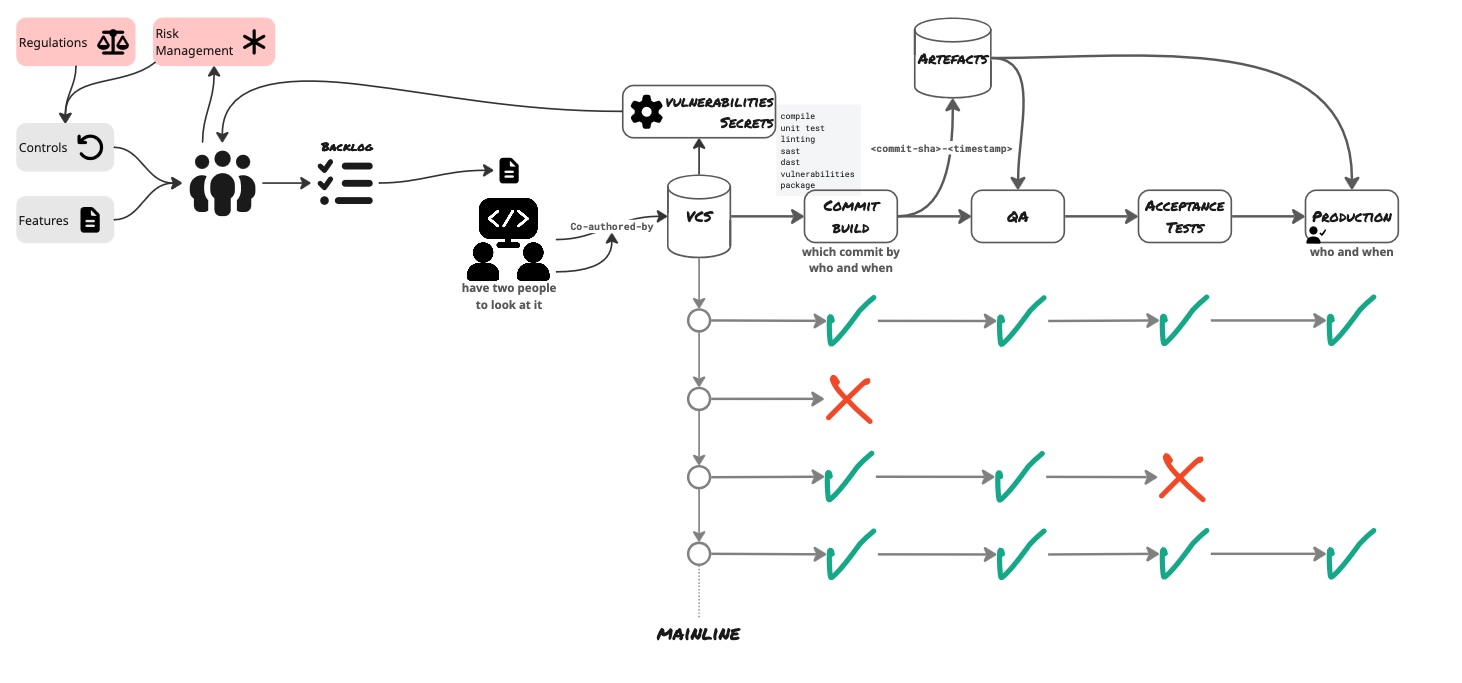
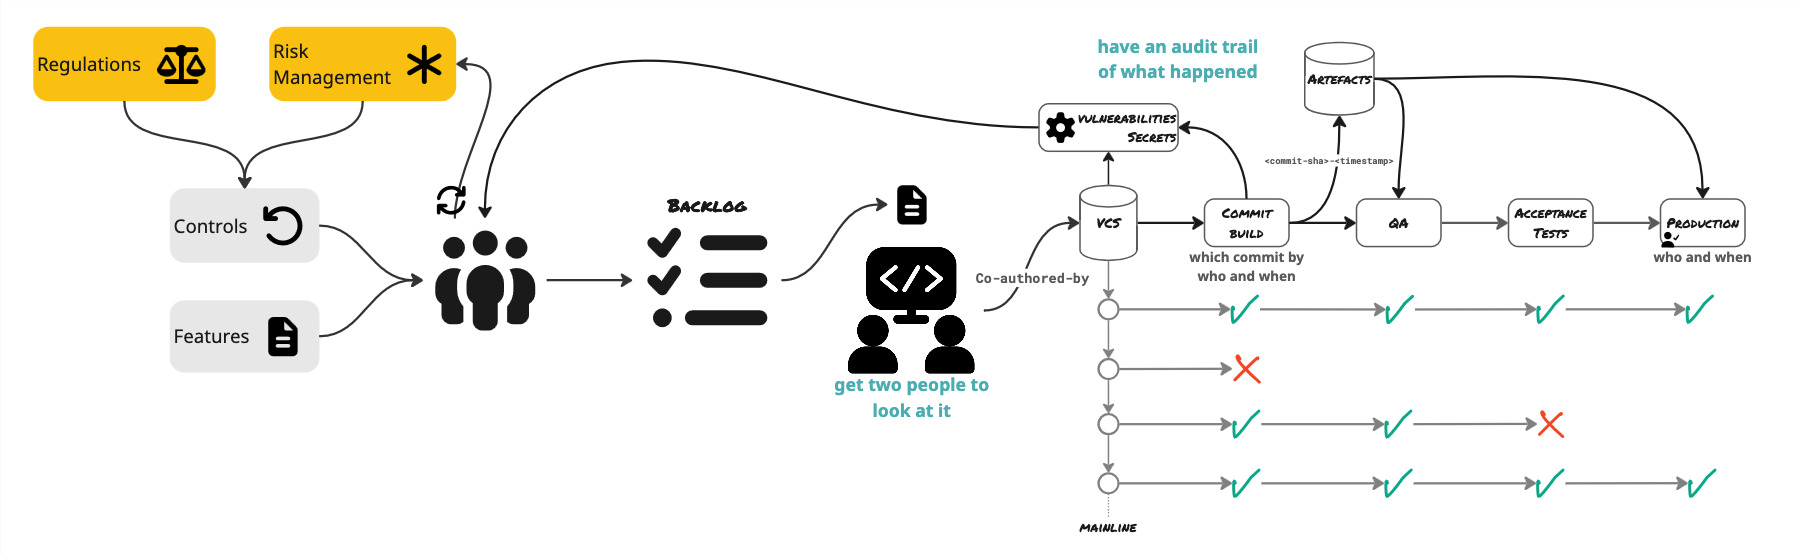
Draft continuous compliance

diff --git a/_drafts/continuous-compliance.md b/_drafts/continuous-compliance.md
@@ -7,11 +7,13 @@ tags: [ Compliance, Continuous Delivery ]
 image: /images/continuous-compliance/continuous-compliance.jpg
 ---
 
-[But, compliance!]({% post_url 2022-02-22-on-the-evilness-of-feature-branching-but-compliance %}) Somehow, a welcome justification for all the superfluous gates in our software delivery process, and to embarrassingly uphold the unreasonable delays. Contrary to common belief, compliance is not a good reason to go slow. Going slow for safety is a mistake. It introduces all sorts of disorders, drives down quality, and decelerates even more till a grinding halt. No! Compliance is an excellent ground for better quality and thus to go fast, accelerate feedback, and ultimately produce better, but also more compliant outcomes.
+[But, compliance!]({% post_url 2022-02-22-on-the-evilness-of-feature-branching-but-compliance %}) Somehow, a welcome justification for all the superfluous gates in our software delivery process, and to embarrassingly uphold the unreasonable delays. Contrary to common belief, compliance is not a good reason to go slow. Research is clear about this, going slow for safety is a mistake. It introduces friction, decelerates feedback, drives down quality, and brings a team to a grinding halt. No! Compliance is an excellent ground for better quality and thus faster delivery, accelerate feedback, and ultimately produce better, but also more compliant outcomes.
 
 ---
 
-But, what is Compliance, anyway? The industry, and at some point including me, tends to make an amalgam between Governance, Compliance and Risk Management, and use them interchangeably. Though, they mean different things.
+## Governance, Risk, and Compliance (GRC)
+
+But, what is Compliance, anyway? The industry, and at some point including me, tends to make an amalgam between Governance, Compliance and Risk Management. They are frequently used interchangeably. Though, they mean different things.
 
 **Governance** are all the activities an organisation performs to be compliant with external regulations (ECB, EMA, ...), certifications (PCI-DSS, ISO27001, ISAE 3000, ...), frameworks (ITIL, COBIT, ...), or legally binding contracts and internal regulations (the standards, policies, procedures which are translations of external regulations, certifications or frameworks in internal ways of working).
 
@@ -23,7 +25,7 @@ But, Governance involves more than the steps to be compliant. It also includes k
 
 **Risk Management** is one of the Governance activities, to support Compliance. Regulations demand an organisation to manage its risks. But, good leadership also demand for Risk Management to build a successful organisation. 
 
-A Risk is a negative outcome which negatively impact an organisation's goals, reputation, or operations resulting from ineffective leadership, ethical lapses, inadequate controls, compliance failures, or strategic errors that threaten stakeholder interests. But risks are pervasive. We can never eliminate all risks. Therefore, the need for Risk Management.
+A *Risk* is a horrible thing that could happen which can negatively impact an organisation's goals, reputation, or operations resulting from ineffective leadership, ethical lapses, inadequate controls, compliance failures, or strategic errors that threaten stakeholder interests. But risks are pervasive. We can never eliminate all risks. Therefore, we need Risk Management in an attempt to mitigate risks.
 
 > A good car has the best brakes.
 >
@@ -31,54 +33,100 @@ A Risk is a negative outcome which negatively impact an organisation's goals, re
 >
 > -- a bank CIO
 
-Speed, fast feedback, innovation, and Compliance is not a zero-sum game. We can have both. But it requires we build Compliance requirements into the delivery process, from the start. Much like the lean principle of *Building Quality In* the product, as opposed to testing it later, to be high performant and compliant we do not check for Compliance at the end, it is continuous.
+Speed, fast feedback, innovation, and *Compliance* are not a zero-sum game. We can have both. But it requires we build *Compliance* requirements into the delivery process, from the start. Much like the lean principle of *Building Quality In* the product, as opposed to testing it later, to be high performant and compliant we do not check for *Compliance* at the end, it happens continuous, all the time.
 
-![Continuous Compliance](/images/continuous-compliance/continuous-compliance.jpg)
+> When it hurts, do it more often.
+>
+> -- Dave Farley, Continuous Delivery
 
 ## Where do we start?
 
-Compliance starts by understanding the regulation. Organisations often conflate "*their approach to regulation*" with regulation. Not the same thing, at all. Oftentimes, regulation is about "*do we do what we say we do*". The most rigorious regulation says "*get two people to look at it*" and "*have an audit trail of what happened*". Therefore, it is of utmost importance that the product team reads and understands the regulation. When I say the team, I mean everyone. This is not only the Product Manager. That is also all engineers. That is the only way to make sure product implementations are aligned with the regulation. Because now, engineers understand the implications of their code. "*To my understanding if we do this, we are good. That might be shaggy.*" The team is accountable and responsible to implement and satisfy the compliance requirements. Having that in place, is already a major step towards Continuous Compliance.
+![Continuous Compliance](/images/continuous-compliance/continuous-compliance.jpg)
 
-Once we understand the regulation, we can extract the compliance requirements, which in turn define controls to be implemented. The controls go onto the product backlog, and can be prioritised alongside functionality. We can give it the necessary importance compared to functionality with market value. Having said that, Compliance has also market value. Not being compliant can shut us down from the market.
+Compliance starts by understanding the regulation.
 
-As said, part of Compliance is Risk Management. That too has to become part of product development. We continuously identify risks, business operations risks as well as IT operations risks and security risks. One more reason to have business, i.e. the people doing the business operations, part of the product team to have Continuous Compliance. They are in the best place to identify business risks. Of course when Risk Management becomes a team activity, obviously engineers will also start identifying business risks, as they start to internalise the business. Same for product managers and business operations who start to identify IT operations and security risks. It becomes communicating vessels.
+Organisations often conflate "*their approach to regulation*" with regulation. Not the same thing, at all. Oftentimes, regulation is about "*do we do what we say we do*" (ISO 27001). The most rigorous regulation says "*get two people to look at it*" and "*have an audit trail of what happened*" (PCI-DSS).
 
-A predominant mode of thinking in IT is a "*Wouldn't It Be Horrible*"-approach to Risk Management (Hubbard, Humble et al.). We imagine a particularly catastrophic event occurring, regardless of its likelihood/.It must be avoided at all costs. There is no sense of prioritisation. *Which risks are we willing to accept and which ones not?*. **As we are taking steps to mitigate risk in one area, we inevitably introduce more risk, or new risks, in another area.**
+It is, therefore, important that the product team reads and understands the regulation. When I say the team, I mean everyone. This is not only limited to the Product Manager. That also includes all Engineers. This ensures that product implementations are aligned with the regulation. Because now, Engineers understand the implications of their code. "*To my understanding if we do this, we are good*". From then on, the team is accountable and responsible to implement and satisfy the compliance requirements. Having that in place, brings us already a long way forward towards Continuous Compliance.
 
-There should not be a free pass for work to mitigate risks to jump to the front of the line. Instead, we should quantify risks using [Impact Mapping](https://www.impactmapping.org/) and prioritise using the [Cost of Delay](https://blackswanfarming.com/cost-of-delay/).
+Once we understand the regulation, we can extract the compliance requirements, which in turn define controls to be implemented. The controls go onto the product backlog, and are prioritised alongside functionality. It receives the necessary importance compared to the compared to the required functionality. Be aware that *Compliance*, much like functionality, has market value. Not being compliant can shut us down from the market.
 
-Every single day, at the start of the day, the team reviews the risks. Did we identify new risks? What is the impact of risk when it happens? What is the likelihood of the risk to happen? What is the cost to mitigate the risk? Should we mitigate the risk or can we accept the risk? All this is documented as Decision Records.
+The other part of *Governance*, and consequently of product management, is *Risk Management*. We continuously identify risks, business operations risks as well as IT operations risks and security risks. One more reason to have business, i.e. the people doing the business operations, part of the product team to obtain Continuous Compliance. They are in the best place to identify business risks. Of course when Risk Management becomes a team activity, obviously Engineers will also start identifying business risks, as they start to internalise the business. Same for Product Managers and business operations who become able to identify IT operations and security risks. It becomes communicating vessels.
 
-As with regulation, identified risks to be mitigated create compliance requirements, which in turn define controls. These controls go again on the backlog and are prioritised together with all other controls and functionality. Whether to prioritise a functionality before a risk mitigation control or a regulation requirement control is, in the end, a business decision and lays in the hands of the Product Manager. Note, in this case, the Product Manager is also accountable and responsible for the business operations, i.e. the turn over and costs generated by the business.
+A predominant *Risk Management* mode in IT is a "*Wouldn't It Be Horrible*"-approach (Hubbard, 1985, Humble et al., 2014). We imagine a particularly catastrophic event occurring. Regardless of its likelihood, it must be avoided at all costs. There is no sense of prioritisation. The question to be answered in managing risks is: "*Which risks are we willing to accept and which ones not?*". **As we are taking steps to mitigate risk in one area, we inevitably introduce more risk, or new risks, in another area** (Humble et al., 2014).
+
+There should not be a free pass for risk mitigation work to jump to the front of the line. Instead, we should quantify risks using [Impact Mapping](https://www.impactmapping.org/) and prioritise using the [Cost of Delay](https://blackswanfarming.com/cost-of-delay/).
+
+Every single day, at the start of the day, the team reviews the risks. Did we identify new risks? What is the impact of the risk when it happens? What is the likelihood of the risk to happen? What is the cost to mitigate the risk? Should we mitigate the risk or can we accept the risk? All this is documented as Decision Records (much like [Architecture Decision Records](https://cognitect.com/blog/2011/11/15/documenting-architecture-decisions.html), however, this time for non-architecture matters).
+
+As with regulation, identified risks to be mitigated create compliance requirements, which in turn define controls. These controls go again on the backlog and are prioritised together with all other controls and functionality. Whether to prioritise a functionality before a risk mitigation control or a regulation requirement control is, in the end, a business decision and lays in the hands of the Product Manager. Note, in this case, the Product Manager is also accountable and responsible for the business operations, i.e. the turnover and costs generated by the business, as well as its compliance.
 
 This upfront risk assessment will prevent a lot of pain when going to production. By identifying these risks we can introduce the most appropriate controls to mitigate the risk and comply with the regulation. However, the challenge will be to find the right balance of controls, in the context of the organisation and the applicable regulation, to still allow teams to deliver value fast while keeping risks at an acceptable levels.
 
-So, if we already operate as above, we are already a long way forward. But it does not step there.
+Operating as above, is already a considerable advancement towards *Compliance*. But it does not stop there.
 
-A lot of the compliance requirements is around showing evidences, have an audit trail of what happened. That is where Continuous Delivery enters with its central pattern: the [Deployment Pipeline]({% post_url 2026-01-09-what-is-continuous-delivery %}#deployment-pipeline). The Deployment Pipeline, together with Version Control, acts as an audit trail of everything that happened when getting code out of version control in production into the hands of the users.
+## Get Two People to Look At It
 
-The Version Control System tells us what changed, why it changed, when and who was involved in the change. That could be a single person (isolated programming), two people (Pair Programming) or many people (Team Programming). All of this can be recorded. Either using a combination of authentication and signing keys, commit messages, or `Co-authored-by` Git trailers. The why something changed is recorded by including a ticket number in the commit message.
+The most demanding regulation require to *get two people to look at it*, also commonly known as "*four-eyes principle*". The main reason for this principle, is to avoid fraud in finance, or introduce faults that could kill someone in healthcare. Therefore, have someone different from the code-author to look at the code.
 
-The Deployment Pipeline tells us which action happened, when, on which commit, and for manual tasks it records who performed the manual task. It will also link a binary artefact with the commit that triggered the build and produced the artefact.
+The classic implementation are formal code reviews using Pull Requests. As already discussed before ([here]({% post_url 2022-02-22-on-the-evilness-of-feature-branching-but-compliance %}), [here]({% post_url 2022-05-30-on-the-evilness-of-feature-branching-the-problems%}), and [here]({% post_url 2024-02-22-the-good-and-the-dysfunctional-of-pull-requests %})), this has the downside of blocking delivery, delaying feedback, and consequently driving quality down. Additionally, it tends to introduce isolated, solo work, and therefore disables collaboration, and diversity of views to ultimately result in lower quality products. However, in all fairness, it has the benefit to provide a strong evidence that two people have looked at it.
 
-attaches test, and other reports like vulnerability scans to the pipeline run.
+> Information security, auditors, and regulators often put **too much reliance on code reviews to detect fraud**. Instead, they should be relying on production monitoring controls in addition to using automated testing, code reviews, and approvals, to effectively mitigate the risks associated with errors and fraud.
+>
+> [...] we had a developer who planted a backdoor in the code that we deploy to our ATM cash machines. They were able to put the ATMs in maintenance mode at certain times, allowing them to take cash out of the machines. We were able to detect the fraud quite quickly, and it wasn't through code reviews. These types of backdoors are difficult, or even impossible, to detect when the perpetrators have sufficient means, motive, and opportunity.
+>
+> -- someone leading the DevOps initiative at a large US financial services organisation, The DevOps Handbook, Chapter 23. Protecting the Deployment Pipeline, p344
 
-fails the pipeline on any test failure, vulnerability, code quality
+*The fraud was quickly detected by employing detective controls using proactive production monitoring, not code reviews.*
 
-## Have Two People to Look at It
+Note, no single regulation mandates Pull Requests. Only PCI-DSS explicitly requires a four-eyes principle. How that is implemented is up to us.
 
-Classicly, implemented in the case of isolated, solo work with formal code reviews using Pull Requests. As already discussed ([here]({% post_url 2022-02-22-on-the-evilness-of-feature-branching-but-compliance %}), [here]({% post_url 2022-05-30-on-the-evilness-of-feature-branching-the-problems%}), and [here]({% post_url 2024-02-22-the-good-and-the-dysfunctional-of-pull-requests %})), this has the downside of blocking delivery, therefore delaying feedback, and consequently driving quality down. In all fairness, it has the benefit of providing evidence that two people has looked at it.
+A more efficient approach to getting two people to look at it is [Pair Programming](https://en.wikipedia.org/wiki/Pair_programming) or [Team Programming](https://en.wikipedia.org/wiki/Team_programming).
 
-If we want to keep solo work because Pair Programming or Team Programming is a cultural stretch for the team, and therefore want to keep formal code reviews, [Non-Blocking Code Reviews]({% post_url 2023-05-02-non-blocking-continuous-code-reviews-a-case-study %}) would work fine for non-regulated industries. With the proper tooling in place, we record who reviewed what. This could work for regulated industries if we have something in place that prevents production deployments as long as not all code reviews have been completed. It has the added benefit that binary artefacts can already be in a test environment before a code review happened, thus reducing the testing delays, and still accelerating feedback compared to Pull Requests.
+However, Pair Programming or Team Programming can be a cultural stretch for teams. In these situations, [Non-Blocking Code Reviews]({% post_url 2023-05-02-non-blocking-continuous-code-reviews-a-case-study %}) would be a better choice, and works fine for non-regulated industries. With the proper tooling in place, we record who reviewed what. It could even work for regulated industries if we have something in place that prevents production deployments as long as not all code reviews have been completed. It has the added benefit that binary artefacts can already be in a test environment before a code review happened, thus reducing the testing delays, and still accelerating feedback compared to Pull Requests.
 
-Two or more people satisfy the requirement of "have two people to look at it". Note, no mention of a Pull Request here. Also, the Pull Request requires additional tooling outside of Version Control.
+## Have an Audit Trail of What Happened
 
-Single person can also satisfy that if it is followed by a mandatory code review. How this is implemented can have lead time and feedback cycle consequences.
+A lot of the compliance requirements is about showing evidences, *have an audit trail of what happened*. That is where [Continuous Delivery]({% post_url 2026-01-09-what-is-continuous-delivery %}) enters with its central pattern: the [Deployment Pipeline]({% post_url 2026-01-09-what-is-continuous-delivery %}#deployment-pipeline). The Deployment Pipeline, together with Version Control, acts as an audit trail of anything that happened when getting code out of version control in production into the hands of the users.
 
+The Version Control System tells us what changed, why it changed, when and who was involved in the change. That could be a single person (isolated programming), two people (Pair Programming) or many people (Team Programming). All of this can be recorded. Either using a combination of authentication and signing keys, commit messages, or the [`Co-authored-by`](https://docs.github.com/en/pull-requests/how-tos/commit-changes/creating-a-commit-with-multiple-authors) Git trailers. The why something changed is recorded by including a ticket number in the commit message. Note, the "why" is often overlooked, though it is one of the most important information as it gives us the context and the reason for the change.
 
+The Deployment Pipeline tells us which commit triggered the pipeline-run, which actions happened, and when they happened. It links the binary artefact that gets deployed into production with the commit that triggered the pipeline run. For manual tasks, such as Exploratory Testing, or triggering the production deployment, it additionally records who performed the manual task.
+
+The pipeline collects all the evidences: linting and code quality scanning results, Unit Test execution results, secrets in plain text detection, Software Composition Analysis (SCA, commonly known as vulnerability scanning) results, Static Application Security Testing (SAST, commonly known as security scanning) results, Automated Acceptance Testing, API Security Testing, load and performance testing, etc. and finally, health checks, Smoke Testing.
+
+Whenever any of these tests and checks fail, it fails the Deployment Pipeline. Whenever the pipeline fails the team [stops the line](https://en.wikipedia.org/wiki/Andon_(manufacturing)), stops all work, it [*Does not Push any more code to the Broken Pipeline*]({% post_url 2022-09-17-the-practices-that-make-continuous-integration-team-working%}#practice-3-do-not-push-to-a-broken-build), it owns the failure and fixes the problem with the highest priority. Only once the pipeline is fixed, the team can pick up any on-going work again and move on. This is paramount to prevent vulnerable software in production.
+
+For this to work, it is crucial that all the checks, especially automated tests, are deterministic. When it fails, it fails all the time. Not failing and passing on a rerun. These tests are useless.
+
+## There Is More
+
+The above is already a good start and is a minimum to implement to get a substantial headway. However, there is more ... we should consider putting in place *Continuous Safeguards*.
+
+*Compliance* is not a point-in-time activity that happens before a release. It has to be continuous! Therefore, 
+
+TODO
+
+- continuous SCA (dependabot)
+- continuous secrets scanning
+- secrets management
+- runbooks
+- cloud audit trail
+- least privileges
+- ...
+
+## Conclusion
+
+*Compliance* often creates a sense of discomfort within teams. Many times, the malaise is created due to the team not owning the *Compliance*, but another team or division, often the Risk & Compliance-division, tells them what to do. They are kind of at the mercy. Therefore, start to read the regulation to install a constructive dialogue with the Risk & Compliance-division.
+
+In the end, *Compliance* is only putting in place the product management and engineering practices that enable high-performance.
+
+The industry needs this exact mindset shift. **It is a catalyst for speed rather than a brake pedal!**
 
 ## References
 
 - [How to Measure Anything](https://app.thestorygraph.com/books/1642ec2e-e0fa-4d67-aebe-e51bab993bb2), Douglas Hubbard, 1985
-
+- [Continuous Delivery](https://www.goodreads.com/book/show/8686650-continuous-delivery) book, Jez Humble and Dave Farley, 2011
+- [Documenting Architecture Decisions](https://cognitect.com/blog/2011/11/15/documenting-architecture-decisions.html), Michael Nygard, 2011
 - [Lean Enterprise: How High Performance Organizations Innovate at Scale](https://app.thestorygraph.com/books/be53bcd6-adf8-4c9c-9946-541a1038435d), Humble, Molesky, O'Reilly, 2014
+- [The DevOps Handbook](https://www.goodreads.com/book/show/26083308-the-devops-handbook), Gene Kim, Jez Humble, Patrick Debois, John Willis, 2016
